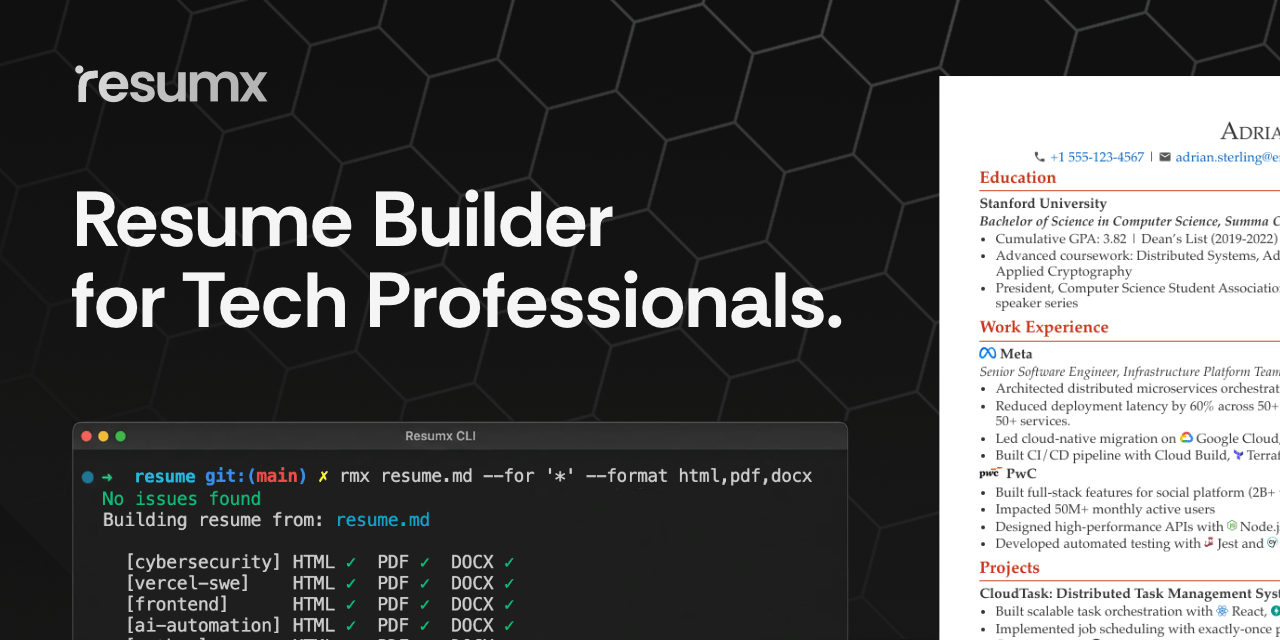
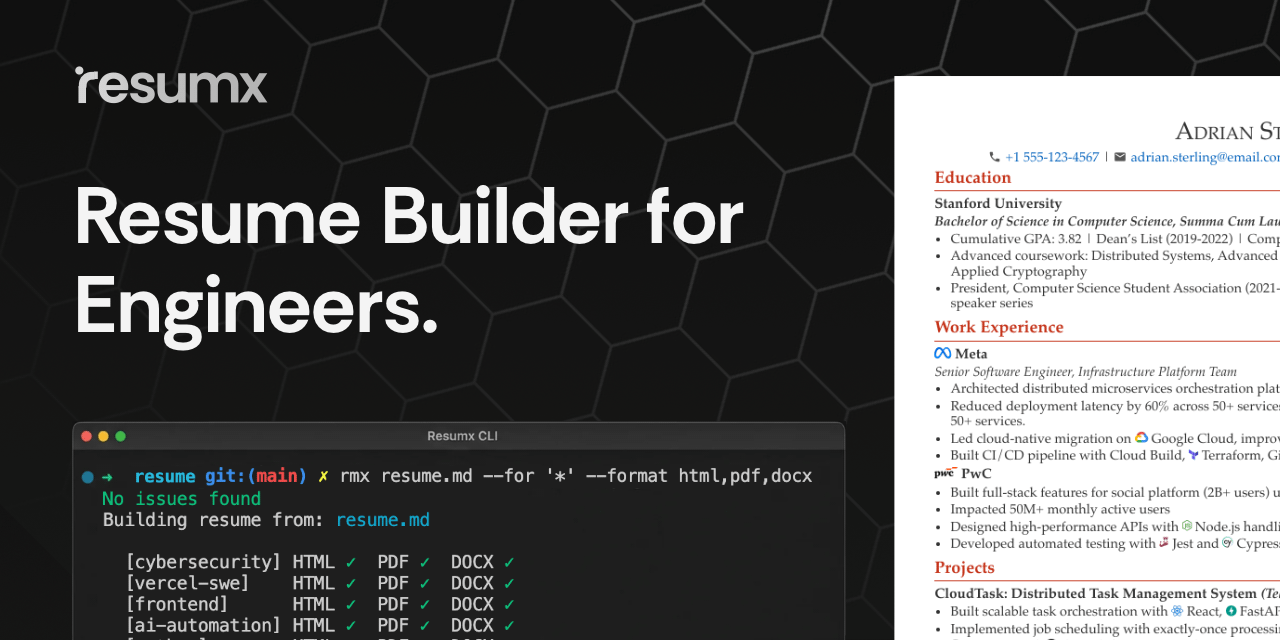
docs(readme): update tagline in README and OG images

diff --git a/README.md b/README.md
@@ -3,7 +3,7 @@
 ---
 
 <p align="center">
-  <em>Resume builder for tech professionals.</em>
+  <em>Resume builder for engineers.</em>
 </p>
 
 <p align="center">
